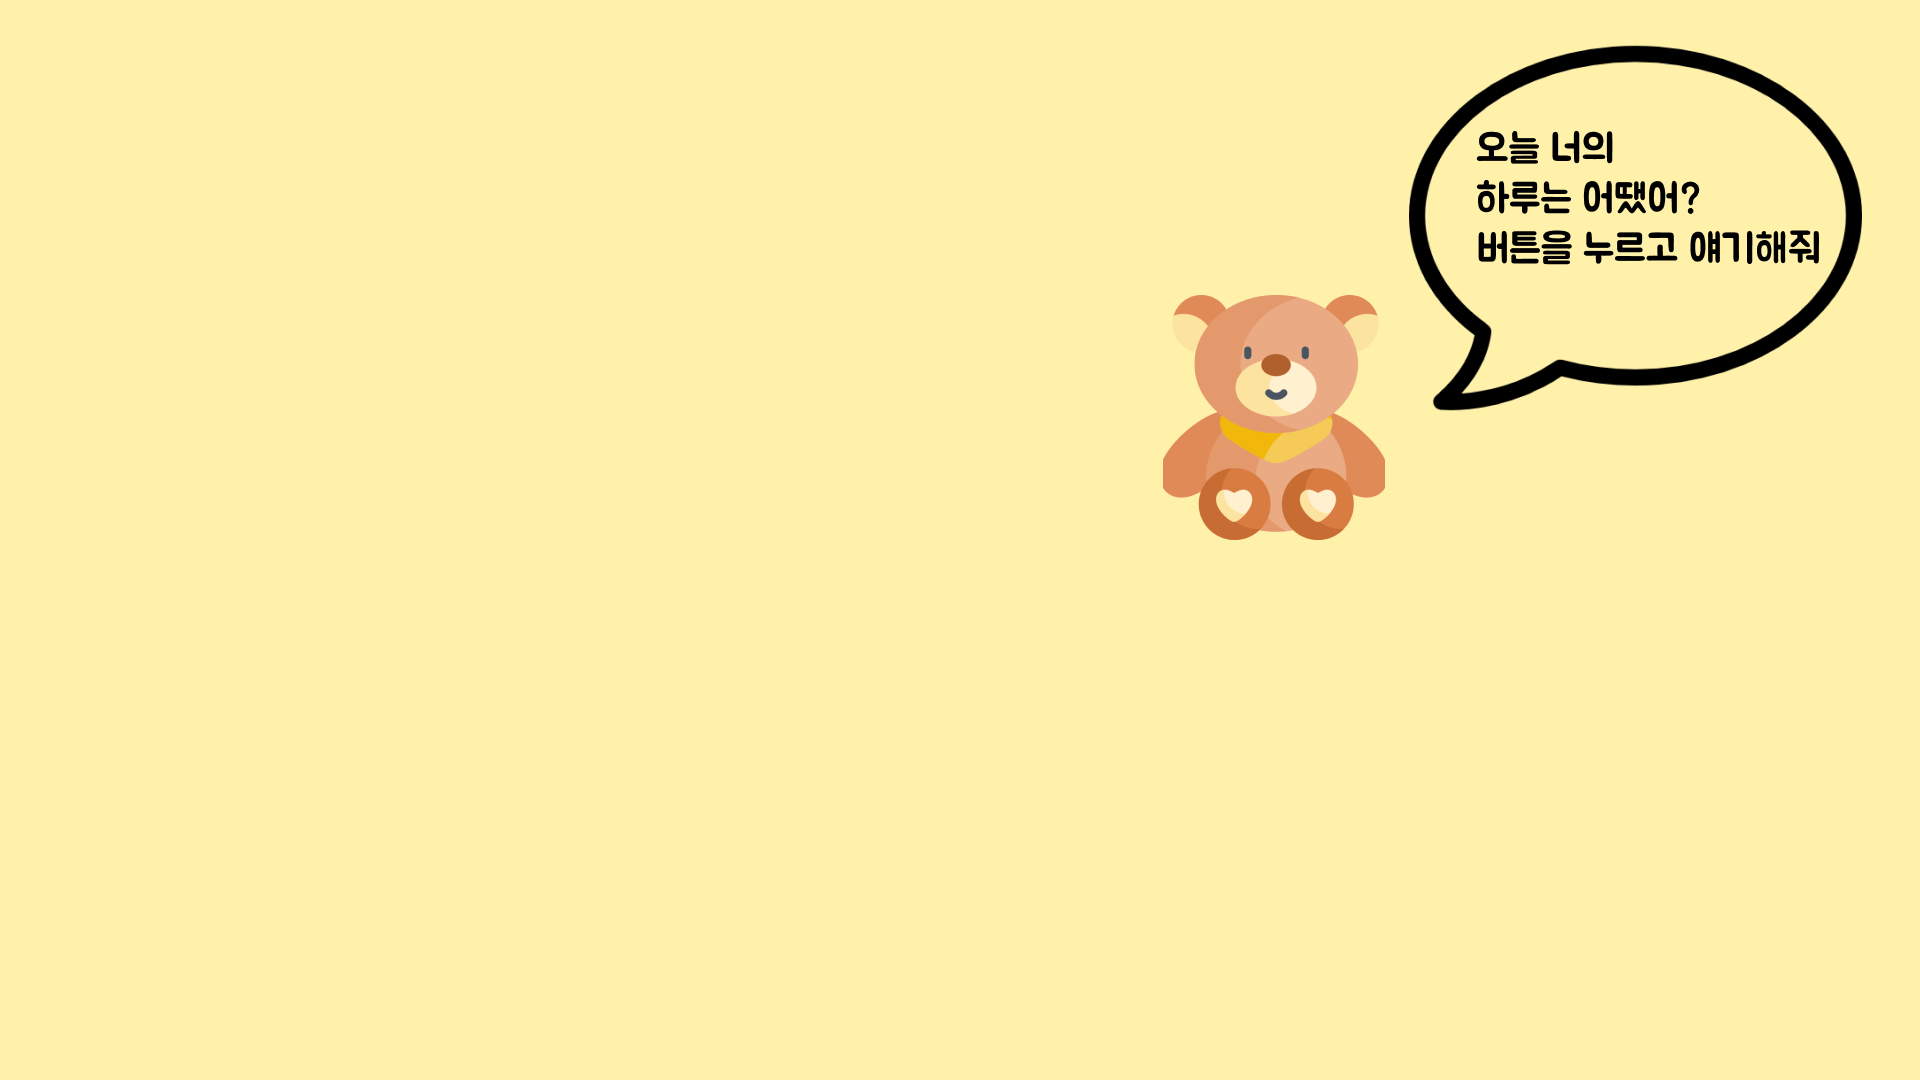
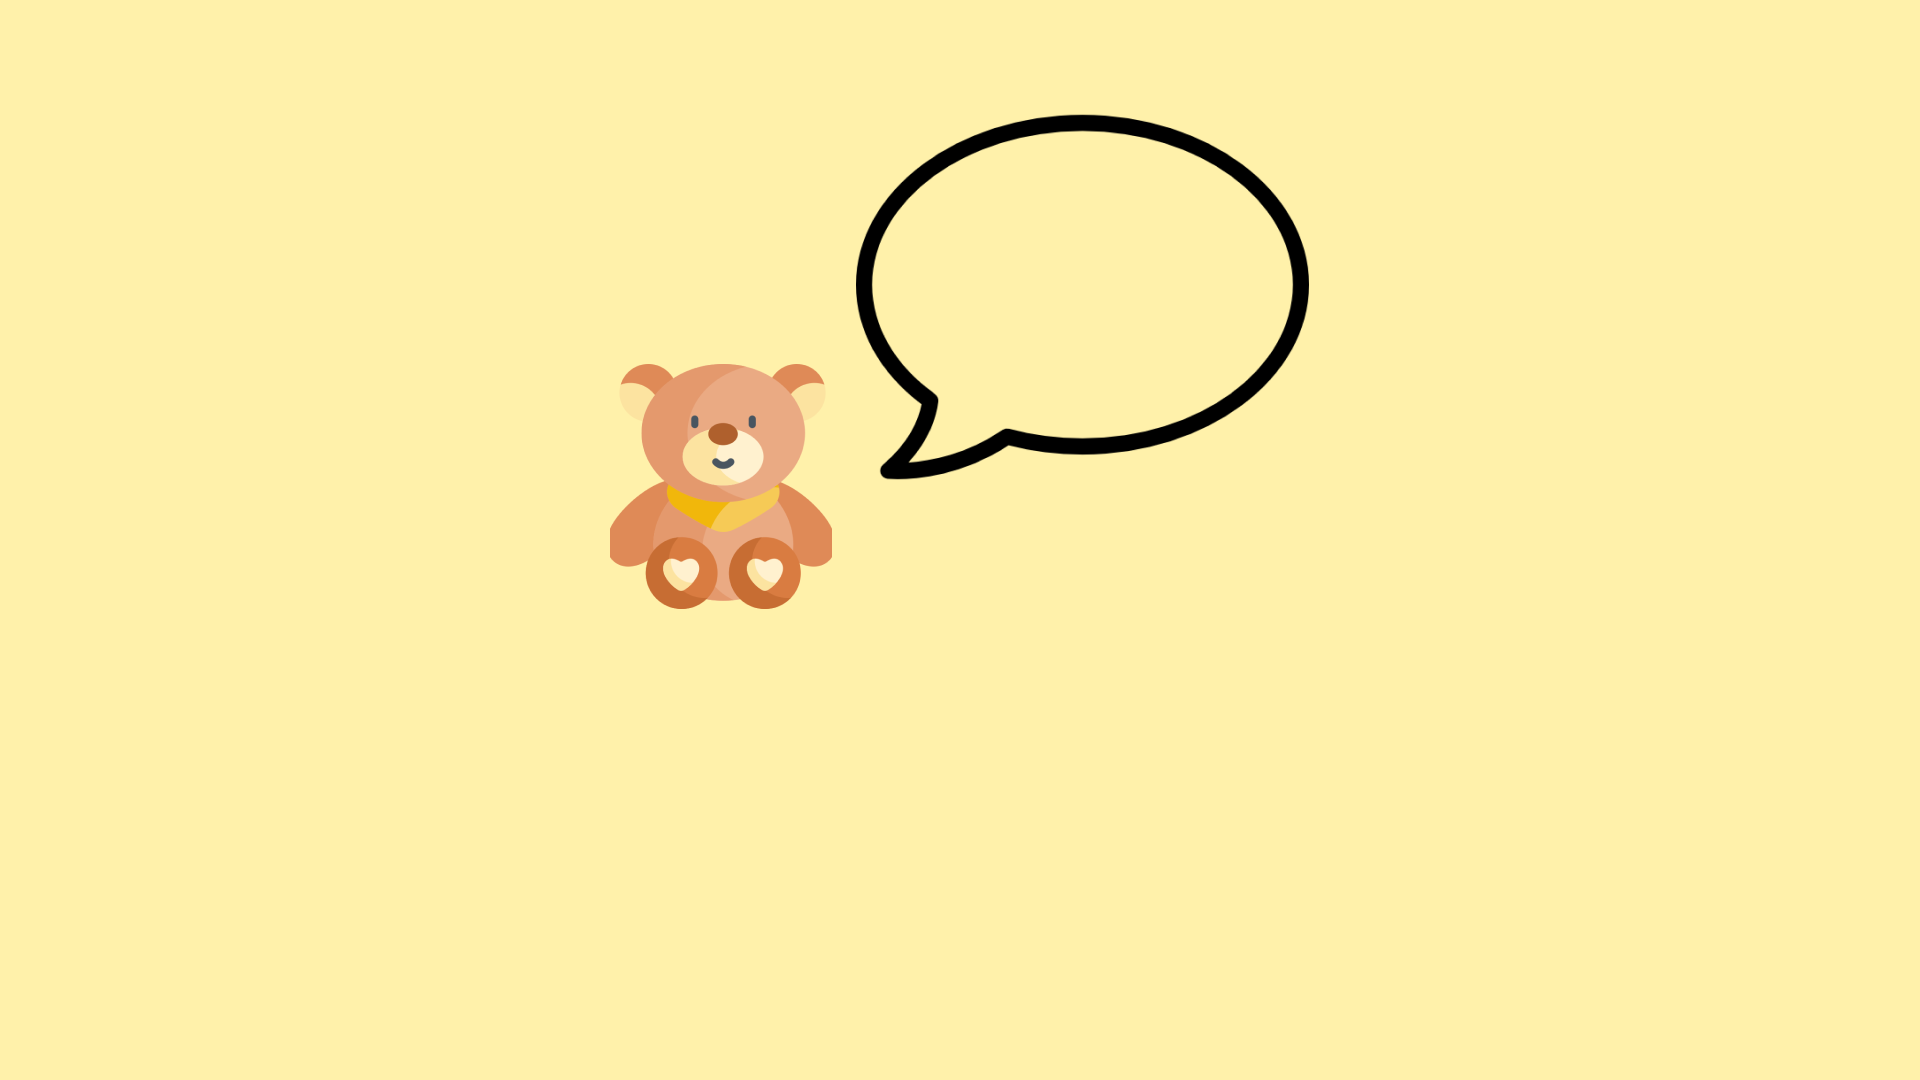
Update stt

Changed region(s): [[0.3125, 0.1833, 0.7188, 0.5806], [0.7188, 0.0306, 0.9688, 0.3972], [0.4688, 0.0917, 0.6562, 0.1833]]

diff --git a/js/stt.js b/js/stt.js
@@ -2,55 +2,70 @@
 const recognition = new webkitSpeechRecognition();
 const STT_API_URL = "";
 
-// 음성 인식 설정
-recognition.lang = 'ko-KR'; // 인식할 언어 설정 (한국어)
-recognition.continuous = true; // 연속적으로 인식할지 여부
+window.onload = async () => {
+    const question = document.getElementById('question');
+    question.innerText = "오늘의 날씨는 어때?";
 
-// 음성 인식 시작 이벤트 핸들러
-document.getElementById('startBtn').addEventListener('click', () => {
-    recognition.start(); // 음성 인식 시작
-    console.log('음성 입력 시작');
-});
+    // 음성 인식 설정
+    recognition.lang = 'ko-KR'; // 인식할 언어 설정 (한국어)
+    recognition.continuous = true; // 연속적으로 인식할지 여부
 
-// 음성 인식 결과 이벤트 핸들러
-recognition.onresult = function(event) {
-    const result = event.results[event.results.length - 1][0].transcript; // 마지막 결과 가져오기
-    const jsonResult = { "result": result }; // JSON 객체 생성
-    document.getElementById('output').innerText = '인식 결과: ' + JSON.stringify(jsonResult); // JSON 형식으로 출력
-    console.log('인식 결과:', jsonResult);
-
-    // 서버로 전송
-    fetch(STT_API_URL, {
-        method: 'POST',
-        headers: {
-            'Content-Type': 'application/json'
-        },
-        body: JSON.stringify(jsonResult)
-    })
-    .then(response => {
-        // 응답 실패시
-        if (!response.ok) {
-            throw new Error('서버 응답에 실패했습니다.');
-        }
-        // 응답 성공시
-        return response.json() // JSON 데이터를 추출하여 js 객체로 파싱
-    })
-    .then(data => {
-        // 서버에서 반환된 메세지 출력
-        alert(data.message);
-    })
-    .catch(error => {
-        // 에러 처리
-        console.error('오류 발생:', error.message);
+    // 음성 인식 시작 이벤트 핸들러
+    document.getElementById('startBtn').addEventListener('click', () => {
+        recognition.start(); // 음성 인식 시작
+        console.log('음성 입력 시작');
     });
-};
 
-// 음성 인식 오류 처리
-recognition.onerror = function(event) {
-    console.error('음성 인식 오류 발생:', event.error);
-};
-
-// 음성 인식 중지 이벤트 핸들러
-recognition.onend = function() {
-    console.log('음성 입력 종료');
-};
+    // 음성 인식 결과 이벤트 핸들러
+    recognition.onresult = function (event) {
+        const result = event.results[event.results.length - 1][0].transcript; // 마지막 결과 가져오기
+        const jsonResult = { "result": result }; // JSON 객체 생성
+        // 서버로 전송
+        fetch(STT_API_URL, {
+            method: 'POST',
+            headers: {
+                'Content-Type': 'application/json'
+            },
+            body: JSON.stringify(jsonResult)
+        })
+            .then(response => {
+                // 응답 실패시
+                if (!response.ok) {
+                    throw new Error('서버 응답에 실패했습니다.');
+                }
+                // 응답 성공시
+                return response.json() // JSON 데이터를 추출하여 js 객체로 파싱
+            })
+            .then(data => {
+                // 서버에서 반환된 메세지 출력
+                alert(data.message);
+            })
+            .catch(error => {
+                // 에러 처리
+                console.error('오류 발생:', error.message);
+            })
+            .finally(() => {
+                // 음성 입력이 종료됨
+                recognition.stop(); // 음성 인식 중지
+                console.log('음성 입력 종료');
+            });
+    };
+    // 음성 인식 오류 처리
+    recognition.onerror = function (event) {
+        console.error('음성 인식 오류 발생:', event.error);
+    };
+    // 음성 인식 중지 이벤트 핸들러
+    recognition.onend = function () {
+        console.log('음성 입력 종료');
+        // 각 음성 입력이 종료될 때마다 다른 질문을 표시
+        if (question.innerText === "오늘의 날씨는 어때?") {
+            question.innerText = "오늘의 기분은 어때?";
+        } 
+        else if (question.innerText === "오늘의 기분은 어때?") {
+            question.innerText = "그래? 너의 하루를 들려줘";
+        } 
+        else {
+            question.innerText = "일기를 작성 중입니다..";
+        }
+    };
+}

diff --git a/css/stt.css b/css/stt.css
@@ -3,6 +3,28 @@ body {
     background-size: cover; /* 이미지가 화면을 채우도록 크기 조정 */
 }
 
+#startBtn img{
+    width: 100px;
+    height: 100px;
+} 
+
 #startBtn {
-    background-image: url('../img/start_button.png');
+    position: absolute;
+    background-color: transparent;
+    border: none;
+    margin-left: 856px;
+    margin-top: 850px;
+}
+
+#question {
+    position: absolute;
+    color: black;
+    width: 500px;
+    height: 100px;
+    /* border: 1px solid black; */
+    text-align: center;
+    align-items: center;
+    margin-left: 780px;
+    margin-top: 240px;
+    font-size: 40px;
 }

diff --git a/stt.html b/stt.html
@@ -8,8 +8,8 @@
 </head>
 </head>
 <body>
-    <button id="startBtn">시작하기</button>
-    <p id="output"></p>
+    <button id="startBtn"><img src="./img/start_button.png"></button>
     <script src="./js/stt.js"></script>
+    <h2 id="question"></h2>
 </body>
 </html>

diff --git a/css/main.css b/css/main.css
@@ -15,7 +15,7 @@ body {
 }
 
 .nav {
-    height: 70px;
+    height: auto;
     display: flex;
     justify-content: space-between;
     align-items: center;
